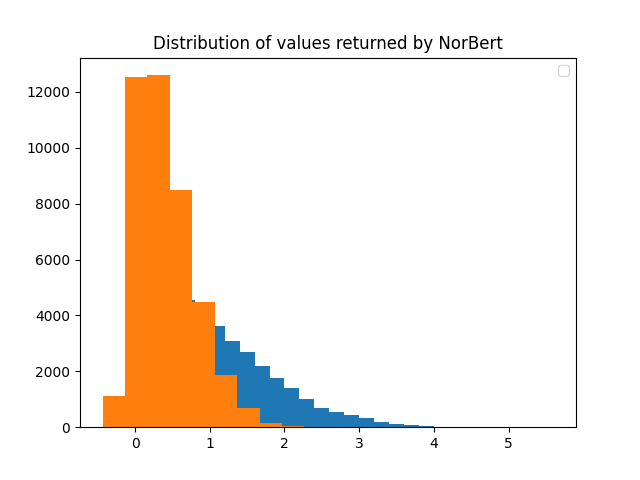
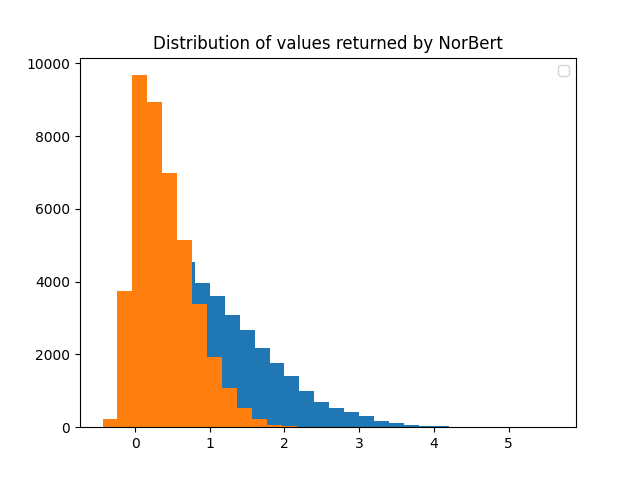
tweak bins

diff --git a/plot_sentiment.py b/plot_sentiment.py
@@ -56,9 +56,9 @@ def plot_uncertainty_diff():
     plt.savefig('fig/uncertainty_diff.png')
 
 def plot_uncertainty_hist():
-    w = 3
-    bins = math.ceil((np.max(labels) - np.min(labels))/w)
-    plt.hist(max_label)#, bins = bins)#, label="mean: {}".format(np.mean(max_label)))
+    binwidth = 0.2
+    plt.hist(max_label, bins=np.arange(min(max_label), max(max_label) + binwidth, binwidth))
+
     plt.legend()
     plt.title('Distribution of values returned by NorBert')
     plt.savefig('fig/uncertainty_hist.png')
